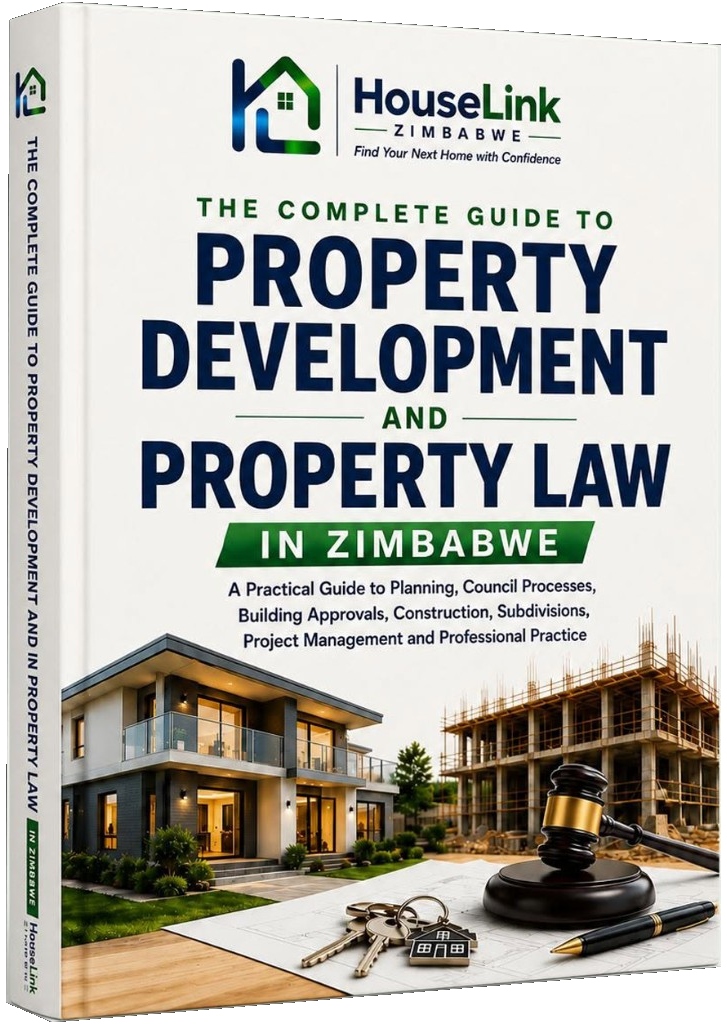
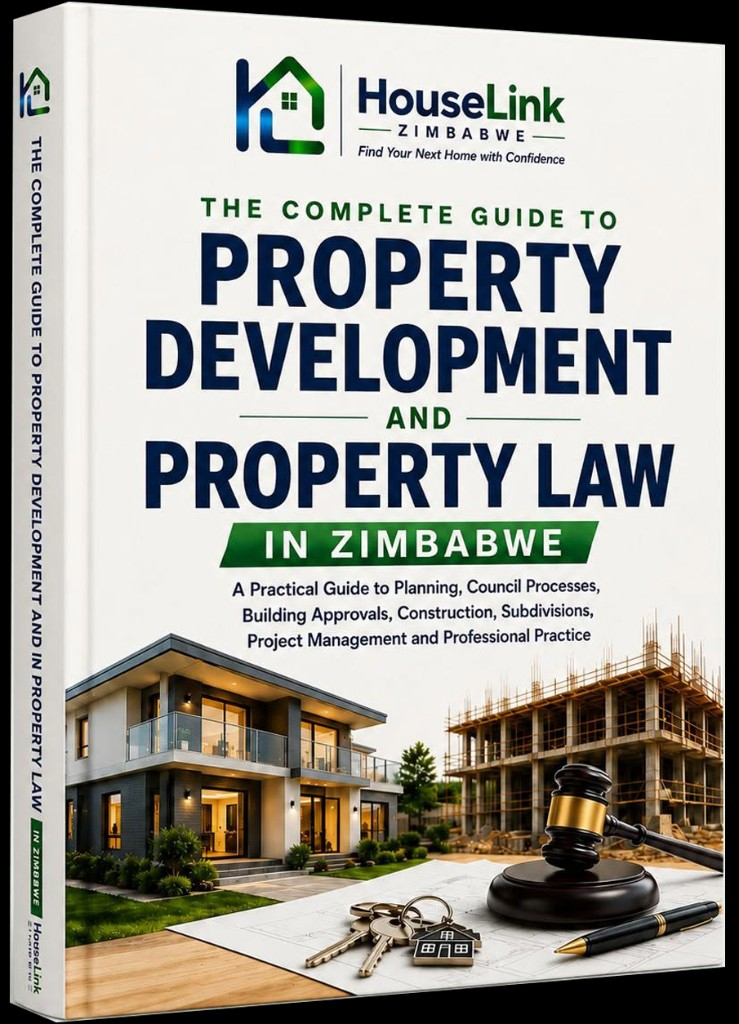
Use the uploaded book PNG as-is for Library hero art.

diff --git a/components/library/library-storefront.tsx b/components/library/library-storefront.tsx
@@ -243,7 +243,7 @@ export function LibraryStorefront({
 
             <div className="relative w-full min-w-0 self-end motion-safe:animate-fade-up motion-safe:[animation-delay:120ms] lg:self-center lg:justify-self-end">
               <div className="motion-safe:animate-library-book-float">
-                {/* Mobile: provided book PNG */}
+                {/* Mobile: exact uploaded book PNG (uncropped) */}
                 <Image
                   src="/images/library/library-hero-books-mobile.png"
                   alt={
@@ -251,13 +251,13 @@ export function LibraryStorefront({
                       ? `${featuredHeroProduct.title} — HouseLink Library`
                       : "The Complete Guide to Property Development and Property Law in Zimbabwe"
                   }
-                  width={727}
+                  width={739}
                   height={1024}
                   priority
-                  className="relative z-[1] mx-auto h-auto w-full max-h-[14.5rem] object-contain object-bottom drop-shadow-[0_16px_36px_rgba(16,32,36,0.16)] sm:max-h-[20rem] md:max-h-[24rem] lg:hidden"
+                  className="relative z-[1] mx-auto h-auto w-full object-contain drop-shadow-[0_16px_36px_rgba(16,32,36,0.16)] lg:hidden"
                   sizes="(max-width: 1023px) 46vw, 1px"
                 />
-                {/* Desktop: provided book PNG */}
+                {/* Desktop: same uploaded book PNG */}
                 <Image
                   src="/images/library/library-hero-books.png"
                   alt={
@@ -265,7 +265,7 @@ export function LibraryStorefront({
                       ? `${featuredHeroProduct.title} — HouseLink Library`
                       : "The Complete Guide to Property Development and Property Law in Zimbabwe"
                   }
-                  width={731}
+                  width={739}
                   height={1024}
                   priority
                   className="relative z-[1] mx-auto hidden h-auto w-full max-w-[24rem] object-contain drop-shadow-[0_22px_48px_rgba(16,32,36,0.18)] lg:block xl:max-w-[26rem]"
